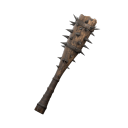
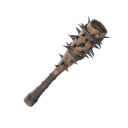
Remodel the ogre's greatclub from Meshy's GLB package
The club came from an OBJ zip, which carries base colour alone, so its
spikes and iron bands rendered as flat brown instead of metal. The GLB
package of the same model ships metallic/roughness and normal maps too.

Weapons hang off a hand socket rather than sitting on the ground, so
this reproduces the sword.glb convention exactly: haft along +X, head
at the +X end, origin on the haft centreline at 13.6% of the length
from the butt. Which end is the head comes from measuring girth at
both ends, not from eyeballing it — the rebuilt GLB lands on the same
dimensions and centreXZ as the asset it replaces.

A long weapon rendered head-on leaves half the square icon empty, and
rotating the object would break the socket pose. Roll the camera about
its view axis instead and render a throwaway copy.

Also write the weapon recipe into the skill, which until now said only
that weapons were an exception without saying what to do about it.

Claude-Session: https://claude.ai/code/session_011PaH9U5pahWipjXgDPowuu

Changed region(s): [[0.1875, 0.0938, 0.875, 0.9062]]

diff --git a/doc/assets/items.md b/doc/assets/items.md
@@ -45,7 +45,7 @@
     - 원화는 ChatGPT 이미지 생성 (ChatGPT Pro 20x, 2026-08-16) ![원화](../images/items/morningstar.png)
 - notched_iron_sword — 신규 애셋 없음. iron_sword의 `weapons/sword.glb`와 `weapons/iron_sword.png`를 그대로 재사용한다(worn_iron_sword와 같은 방식). 홉고블린(Lv5)이 iron_sword 대신 떨구는 무기로 성능은 동일(1d8)하고 basePrice만 10000 → 2500이다 — iron_sword 매각이 NPC 골드 유입의 43%(30일 48.2M)를 차지해 수도꼭지를 좁혔다. 몬스터 피해는 레벨 기반이라 무기 교체는 외형·드롭 가치에만 영향한다 (2026-08-20)
 
-- greatclub.glb — Meshy.ai (유료 생성, 2026-08-16, "Ironthorn Crusher"). 완전 소유권·상업 OK (characters.md License 참조). OBJ를 Blender로 임포트해 전장 1.5m로 스케일 적용(1.50×0.457×0.464m — 오거(2.4m)가 드는 무기라 사람용 sword 1.20m보다 길게, 사람 키 대비 무기 길이 비율을 오거 키에 맞춘 값), sword.glb 손 소켓 규약에 맞춰 자루 +X·가시 머리 +X 끝·원점=그립(자루 중심선, 손잡이 끝에서 전장의 13.6% — 가죽을 감은 그립 구간 안), 텍스처 512²로 축소, emissive 텍스처 없음(Emission 0 확인, export 후 emissiveFactor 없음). OBJ에 metallic/roughness 맵이 없어 Principled metallic 0·roughness 0.55로 지정(나무·가죽이 대부분). 아이콘은 Cycles 직교 측면·위 각도 렌더(대각선 구도) 512²→128² (2026-08-16). items.csv 등록(1d8·무게 10·나무·basePrice 600 — D&D 그레이트클럽은 롱소드와 같은 1d8이면서 통나무라 값이 거의 없다). 오거(Lv8)가 오른손에 드는 무기이며 10% 확률로 떨군다 — 몬스터 피해는 레벨 기반(2d8)이라 무기는 외형·드롭에만 영향
+- greatclub.glb — Meshy.ai (유료 생성, 2026-08-16, "Ironthorn Crusher"). 완전 소유권·상업 OK (characters.md License 참조). **GLB로 다시 받아 2026-08-22에 교체** — 처음엔 OBJ 패키지로 받아 `map_Kd`만 있었고 가시·테두리 쇠붙이가 금속으로 반사하지 않았다. GLB에는 base_color·metallic_roughness·normal 3장이 다 들어 있고 emissive는 없다. Blender로 임포트해 전장 1.5m로 스케일 적용(1.50×0.464×0.457m — 오거(2.4m)가 드는 무기라 사람용 sword 1.20m보다 길게, 사람 키 대비 무기 길이 비율을 오거 키에 맞춘 값), sword.glb 손 소켓 규약에 맞춰 자루 +X·가시 머리 +X 끝·원점=그립(자루 중심선, 손잡이 끝에서 전장의 13.6% — 가죽을 감은 그립 구간 안), 텍스처 3장 모두 2048²→512²로 축소(JPEG 유지). 아이콘은 Cycles 직교 측면·위 각도 렌더 512²→128², 긴 무기라 카메라를 시선축으로 -65° 롤시켜 대각선 구도를 만든다(GLB는 소켓 자세 그대로 — 아이콘용 사본만 회전, 20° 간격 + 55~75° 미세 스윕으로 종전 구도에 맞춤), 금속이 반사할 대상이 있어야 해서 회색 월드(0.55/0.57/0.62, strength 1.2) (2026-08-22). items.csv 등록(1d8·무게 10·나무·basePrice 600 — D&D 그레이트클럽은 롱소드와 같은 1d8이면서 통나무라 값이 거의 없다). 오거(Lv8)가 오른손에 드는 무기이며 10% 확률로 떨군다 — 몬스터 피해는 레벨 기반(2d8)이라 무기는 외형·드롭에만 영향
     - 원화는 ChatGPT 이미지 생성 (ChatGPT Pro 20x, 2026-08-16) ![원화](../images/items/greatclub.png)
 - steel_longsword.glb — Meshy.ai (유료 생성, 2026-08-17, "Silent Oath"). 완전 소유권·상업 OK (characters.md License 참조). OBJ를 Blender로 임포트해 전장 1.30m로 스케일 적용(1.300×0.126×0.045m — 티어 3 무기라 sword 1.20m보다 길게, 오거용 greatclub 1.50m보다는 짧게), sword.glb 손 소켓 규약에 맞춰 칼날 +X·칼날 평면 XZ·원점=그립(손잡이 끝에서 전장의 13.6% — sword.glb 비율과 동일, 크로스가드 바로 아래), 텍스처 2048²→512²로 축소, emissive 텍스처 없음(Emission 0 확인, export 후 emissiveFactor 없음). OBJ에 metallic/roughness 맵이 없어 Principled metallic 0·roughness 0.45로 지정(강철 날). 아이콘은 Cycles 직교 측면·위 각도 렌더(대각선 구도, 칼날이 프레임 대각선에 오도록 카메라 롤 적용 — 가늘고 길어 기본 리그로는 여백이 크다) 512²→128² (2026-08-17). items.csv 등록(1d10·무게 4·metal·basePrice 16,000 — ITEM_TIERS.md의 티어 3 무기). ogre_boss(Ogre Warlord)가 오른손에 드는 무기이며 확정 드랍으로, 임시로 쓰던 greatclub을 대체한다
     - 원화는 ChatGPT 이미지 생성 (ChatGPT Pro 20x, 2026-08-17) ![원화](../images/items/steel_longsword.png)

diff --git a/.claude/skills/blender-item-asset/SKILL.md b/.claude/skills/blender-item-asset/SKILL.md
@@ -141,7 +141,21 @@ bpy.context.view_layer.update()
 result = {"dims": [round(v, 4) for v in o.dimensions]}
 ```
 
-착용구·사물은 원점=바닥 중심. **무기는 예외** — `spear.glb`/`sword.glb`의 손 소켓 규약(원점이 그립, 칼날이 +X)을 따른다.
+착용구·사물은 원점=바닥 중심. **무기는 예외** — `spear.glb`/`sword.glb`의 손 소켓 규약(원점이 그립, 칼날이 +X)을 따른다:
+
+1. 가장 긴 축을 +X로 돌린다. 어느 끝이 머리인지는 눈이 아니라 굵기로 정한다 — 양 끝 20% 구간의 최대 반경을 재서 굵은 쪽이 +X.
+2. 전장을 목표값으로 스케일 적용.
+3. 원점 = 자루 중심선 위, 손잡이 끝에서 전장의 **13.6%** 지점(`sword.glb` 비율). 그 X 근처 얇은 슬랩의 Y·Z 중점을 잡으면 중심선이 나온다.
+4. `measure_glb.py`의 `centreXZ` X값이 `전장 × (0.5 - 0.136)`과 맞는지로 검증한다 (전장 1.5m면 +0.546).
+
+긴 무기는 아이콘이 프레임을 못 채운다. **오브젝트가 아니라 카메라를 시선축으로 롤**시켜 대각선 구도를 만들고(사본만 렌더, export되는 GLB는 소켓 자세 그대로), 오쏘 핏은 카메라 공간에서 계산하므로 롤 뒤에도 그대로 동작한다:
+
+```python
+q = mathutils.Euler((math.radians(62), 0, math.radians(35))).to_quaternion()
+cam.rotation_euler = (q @ mathutils.Quaternion((0, 0, 1), CAM_ROLL)).to_euler()
+```
+
+greatclub은 -65°였다. 각도는 20° 간격으로 한 바퀴 훑고 좁혀서 고른다.
 
 기울여 눕히는 게 자연스러운 애셋(건틀릿 등)은 여기서 X축 회전을 함께 적용한다.
 
